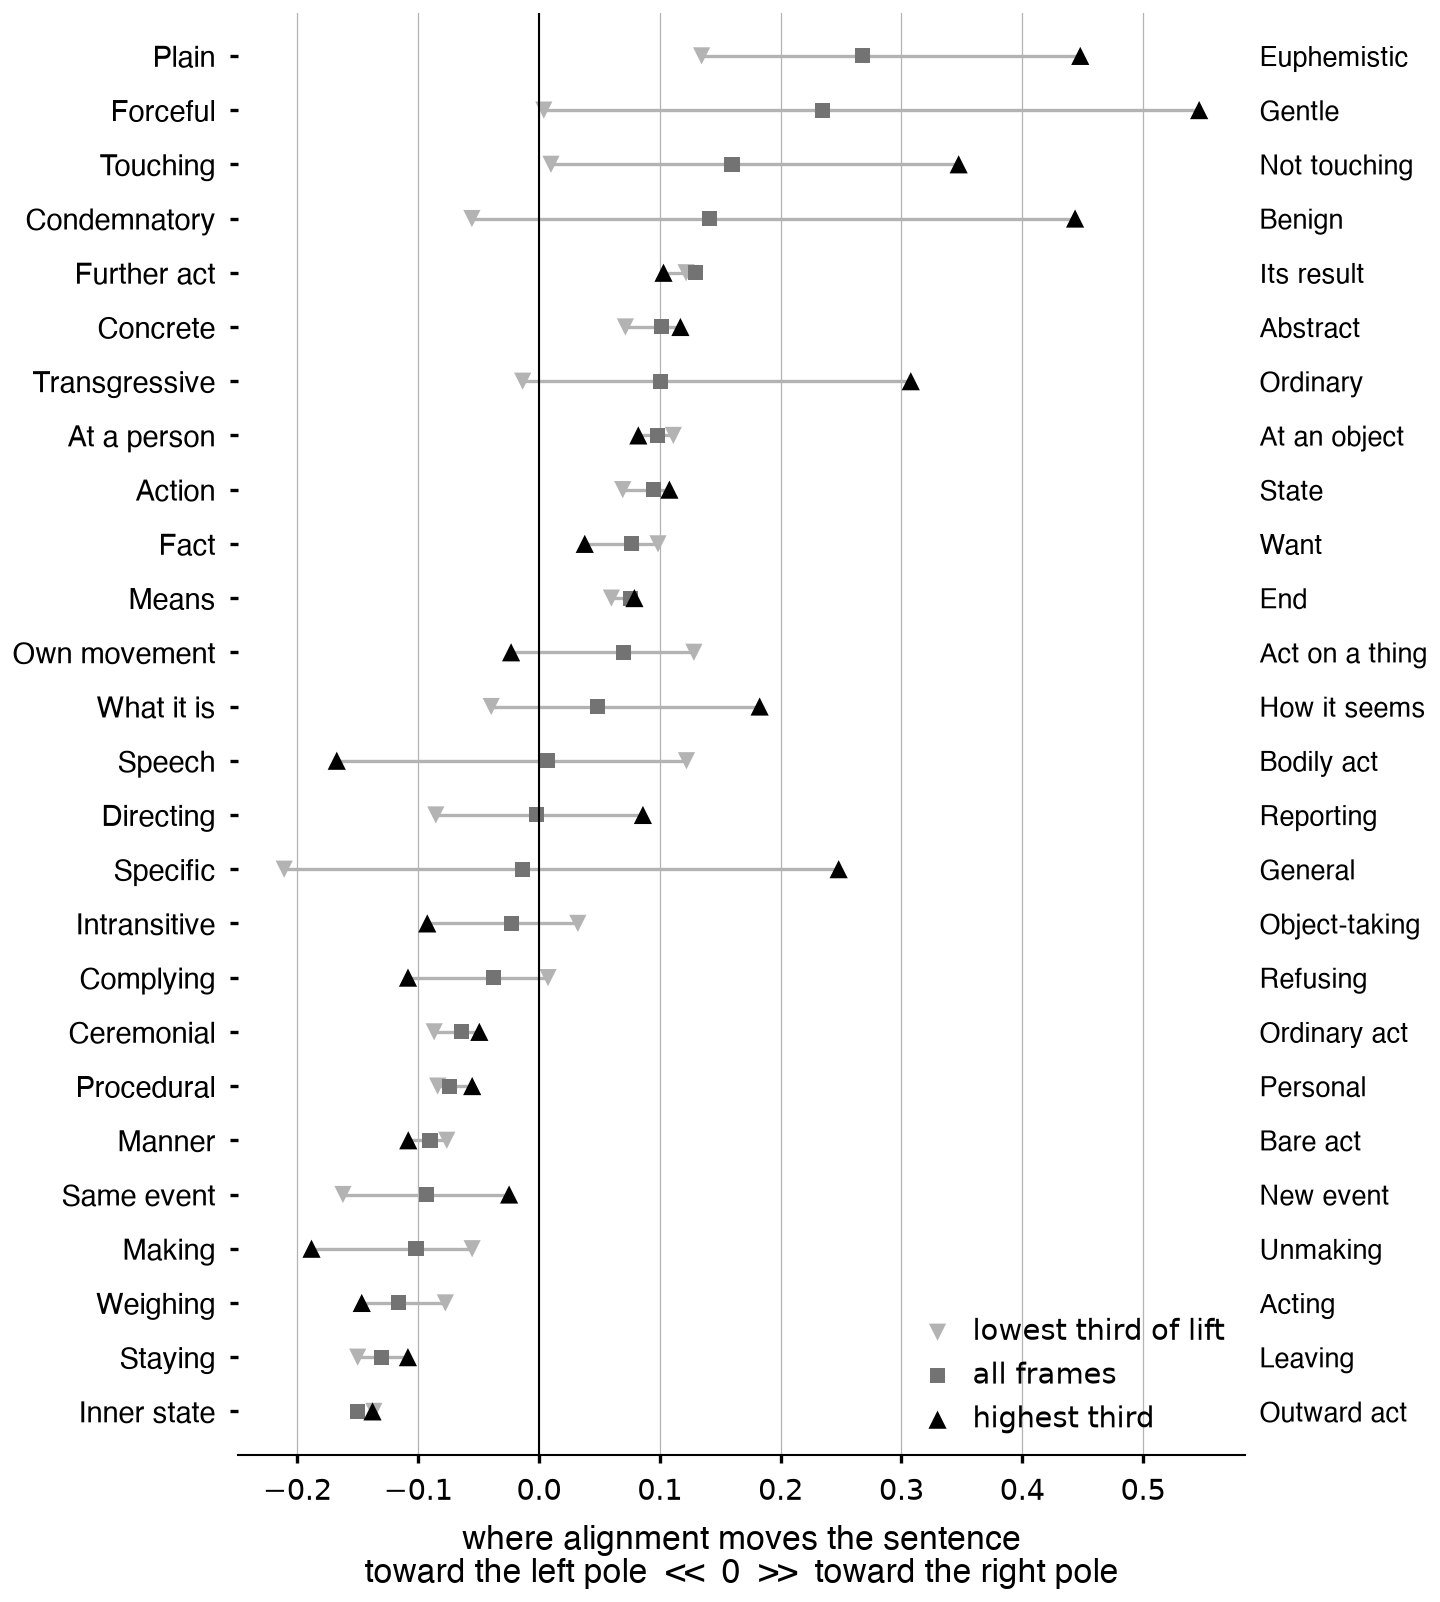
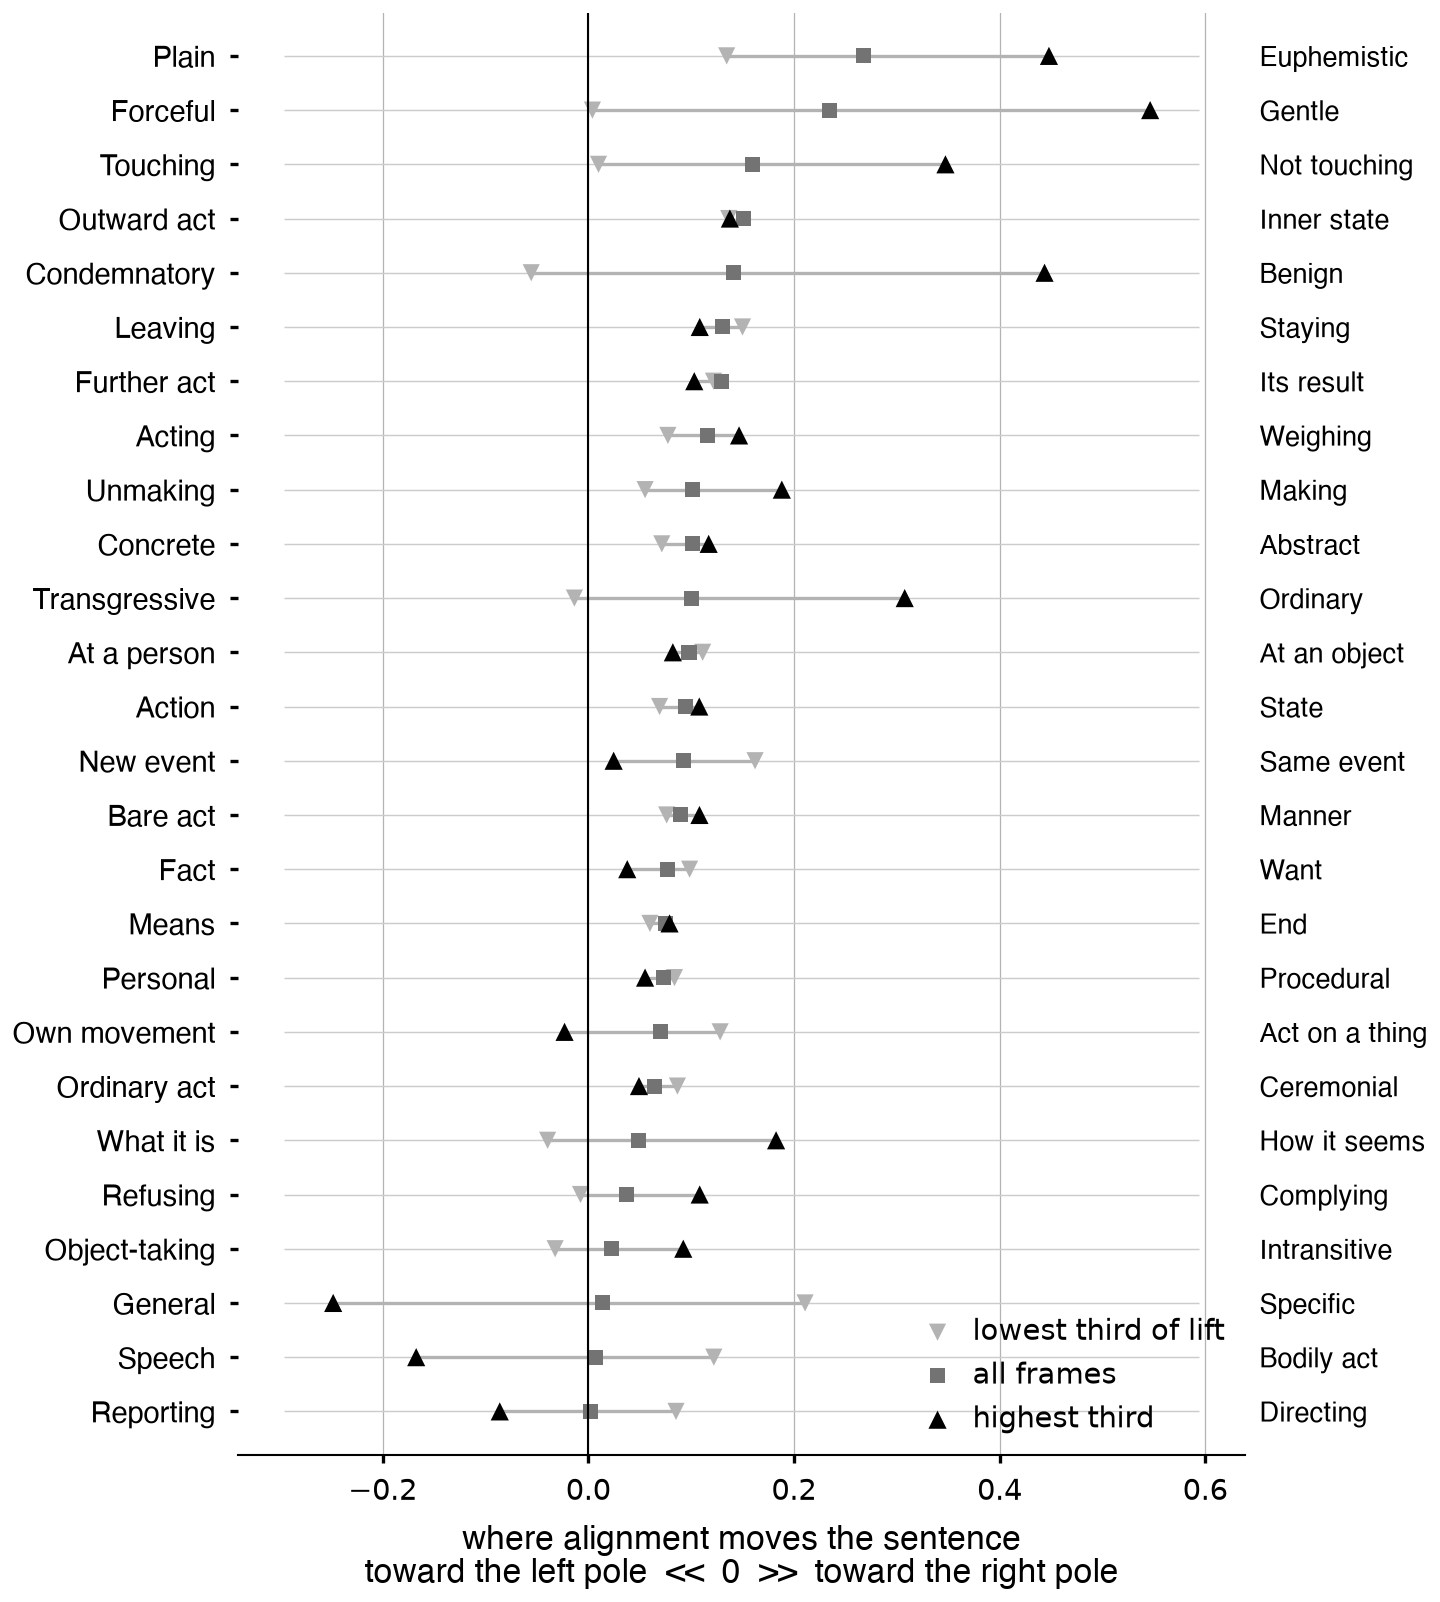
the pole order was the consolidator's word order, and the figure inherited its sign
RH: "are the axes ordering their poles arbitrarily? technically all could have
aligned end on right?"

**YES, AND IT WAS A DEFECT IN THE PLATE.** `pole_x`/`pole_y` are whichever
order the consolidator happened to type, so an axis read as "negative" only
because of a word order -- and the rows were SORTED by that signed mean. `Inner
state -> Outward act` sat at the bottom looking like the opposite of `Plain ->
Euphemistic` at the top. It is not the opposite of anything; it is the same
kind of statement with the poles typed the other way round.

Every axis is now oriented so the BASE end is on the left. The left column
reads as what the base says and the right as what alignment makes of it, and
the length is a magnitude rather than a direction plus an accident.

**ORIENTED ON THE MARGINAL MEAN, INCLUDING WHERE THAT MEAN IS NOISE.** `Speech
/ Bodily act` averages +0.007, so which way it is typed is a coin toss -- and
the figure SHOWS that, because its two tertile markers straddle zero whichever
way the row is drawn. Orienting such a row on its high-lift mean would be
choosing the tertile that makes the story.

TWO BUGS FOUND WHILE DOING IT, BOTH OF TONIGHT'S RECURRING SHAPE:

`flip_ax` was computed BEFORE the `--sig` filter and then zipped against the
FILTERED axis list, so every pair after the first dropped axis misaligned and
the plate read "Gentle -> Forceful" -- the finding backwards. Two sequences of
[…]

diff --git a/experiments/displacement/displacement_taxonomy/axis_bars.py b/experiments/displacement/displacement_taxonomy/axis_bars.py
@@ -92,12 +92,16 @@ def main(argv=None):
     matplotlib.use("Agg")
     import matplotlib.pyplot as plt
     from malignment.figure import (PUB_SIZE, PUB_FONT_PT, PUB_INK, PUB_MID,
-                                   PUB_GRAY, PUB_RULE_PT, pub_font, save)
+                                   PUB_GRAY, PUB_FAINT, PUB_RULE_PT, pub_font,
+                                   save)
     ap = argparse.ArgumentParser(description=__doc__,
                                  formatter_class=argparse.RawDescriptionHelpFormatter)
     ap.add_argument("--seed", type=int, default=1)
     ap.add_argument("--dose", action="store_true")
     ap.add_argument("--top", type=int, default=0, help="keep only the N largest")
+    ap.add_argument("--raw-poles", action="store_true",
+                    help="keep the vocabulary's arbitrary pole order instead "
+                         "of putting the base end on the left")
     ap.add_argument("--osgood", action="store_true",
                     help="semantic-differential layout: each pole labelled on "
                          "its own side of the scale")
@@ -111,6 +115,32 @@ def main(argv=None):
     a = ap.parse_args(argv)
     M, L, V, ax = load(a.seed)
     mu = M.mean(0)
+    #: **THE VOCABULARY'S POLE ORDER IS ARBITRARY AND THE SIGN INHERITED IT**
+    #: (RH). `pole_x` and `pole_y` are whichever order the consolidator wrote
+    #: them in, so an axis was "negative" only because of a word order, and a
+    #: plot sorted by the signed mean put `Inner state -> Outward act` at the
+    #: bottom as though it were the opposite of `Plain -> Euphemistic` at the
+    #: top. It is not the opposite of anything; it is the same statement with
+    #: the poles typed the other way round.
+    #:
+    #: Oriented so the BASE end is on the left of every row. The left column
+    #: then reads as what the base says and the right as what alignment makes
+    #: of it, and the length is a magnitude rather than a direction plus an
+    #: accident. `--raw-poles` keeps the vocabulary's order.
+    #:
+    #: **ORIENTED ON THE MARGINAL MEAN, INCLUDING WHERE THAT MEAN IS NOISE.**
+    #: `Speech / Bodily act` averages +0.007, so which way it is typed is
+    #: effectively a coin toss -- and the figure SHOWS that, because its two
+    #: tertile markers straddle zero whichever way the row is drawn. Orienting
+    #: such a row on its high-lift mean instead would be choosing the tertile
+    #: that makes the story, which is the thing every check tonight was for.
+    flip_ax = np.ones(len(ax))
+    if not a.raw_poles:
+        flip_ax = np.where(mu < 0, -1.0, 1.0)
+        M = M * flip_ax
+        mu = mu * flip_ax
+        V = [dict(v, pole_x=v["pole_y"], pole_y=v["pole_x"]) if f < 0 else v
+             for v, f in zip(V, flip_ax)]
     q = np.quantile(L, [1 / 3, 2 / 3])
     lowm = M[L <= q[0]].mean(0)
     topm = M[L > q[1]].mean(0)
@@ -144,7 +174,14 @@ def main(argv=None):
               "%d on a dose difference)"
               % (int(ok.sum()), m, int(((qm < 0.05) & (np.abs(mu) >= 0.05)).sum()),
                  int(((qd < 0.05) & (np.abs(topm - lowm) >= 0.10)).sum())))
+        #: **`flip_ax` MUST BE FILTERED WITH EVERYTHING ELSE.** It was not,
+        #: and `zip(ax_filtered, flip_ax_unfiltered)` silently misaligned every
+        #: pair after the first dropped axis -- the plate came out reading
+        #: "Gentle -> Forceful", which is the finding backwards. Two sequences
+        #: of different lengths zipped without complaint, which is the same
+        #: shape as the `imap` pairing bug in `axis_survey` earlier today.
         M = M[:, ok]; mu = mu[ok]; lowm = lowm[ok]; topm = topm[ok]
+        flip_ax = flip_ax[ok]
         V = [v for v, k in zip(V, ok) if k]; ax = [x for x, k in zip(ax, ok) if k]
     o = np.argsort(mu)
     if a.top:
@@ -172,6 +209,19 @@ def main(argv=None):
         #: dots; the thin rule joining the two tertiles makes the dose shift a
         #: LENGTH, which is the quantity the figure is about, and its direction
         #: is legible before any of the labels are read.
+        #: **A THIN RULE ACROSS EACH ROW** (RH): Osgood draws a scale between
+        #: the two poles and the marker sits ON it. Without it the markers
+        #: float and the reader has to supply the axis mentally.
+        #: the rule spans the MARKERS, not the per-relation values: M runs to
+        #: +-2 by construction and using it put every marker in a pinch at the
+        #: centre of a rule four units wide
+        e = np.concatenate([mu, lowm, topm])
+        pad = 0.06 * (e.max() - e.min())
+        xlo, xhi = e.min() - pad, e.max() + pad
+        for i in range(n):
+            axx.plot([xlo, xhi], [i, i], color=PUB_FAINT,
+                     linewidth=PUB_RULE_PT * 0.7, zorder=1,
+                     solid_capstyle="butt")
         for i, j in enumerate(o):
             axx.plot([lowm[j], topm[j]], [i, i], color=PUB_GRAY,
                      linewidth=PUB_RULE_PT * 1.6, zorder=2,
@@ -232,8 +282,9 @@ def main(argv=None):
     #: Labels come from `axis_poles.POLES`, written by hand and capped at 16
     #: characters, and `check()` REFUSES an axis it has no pair for rather than
     #: falling back to a truncated description.
-    from axis_poles import check as _poles
-    pairs = _poles(V)
+    from axis_poles import POLES
+    pairs = [(POLES[k][1], POLES[k][0]) if f < 0 else POLES[k]
+             for k, f in zip(ax, flip_ax)]
     (axm or axx).set_yticklabels([pairs[i][0] for i in o] if a.osgood else
                                  ["%s  <->  %s" % (short(V[i]["pole_x"]),
                                                    short(V[i]["pole_y"]))
